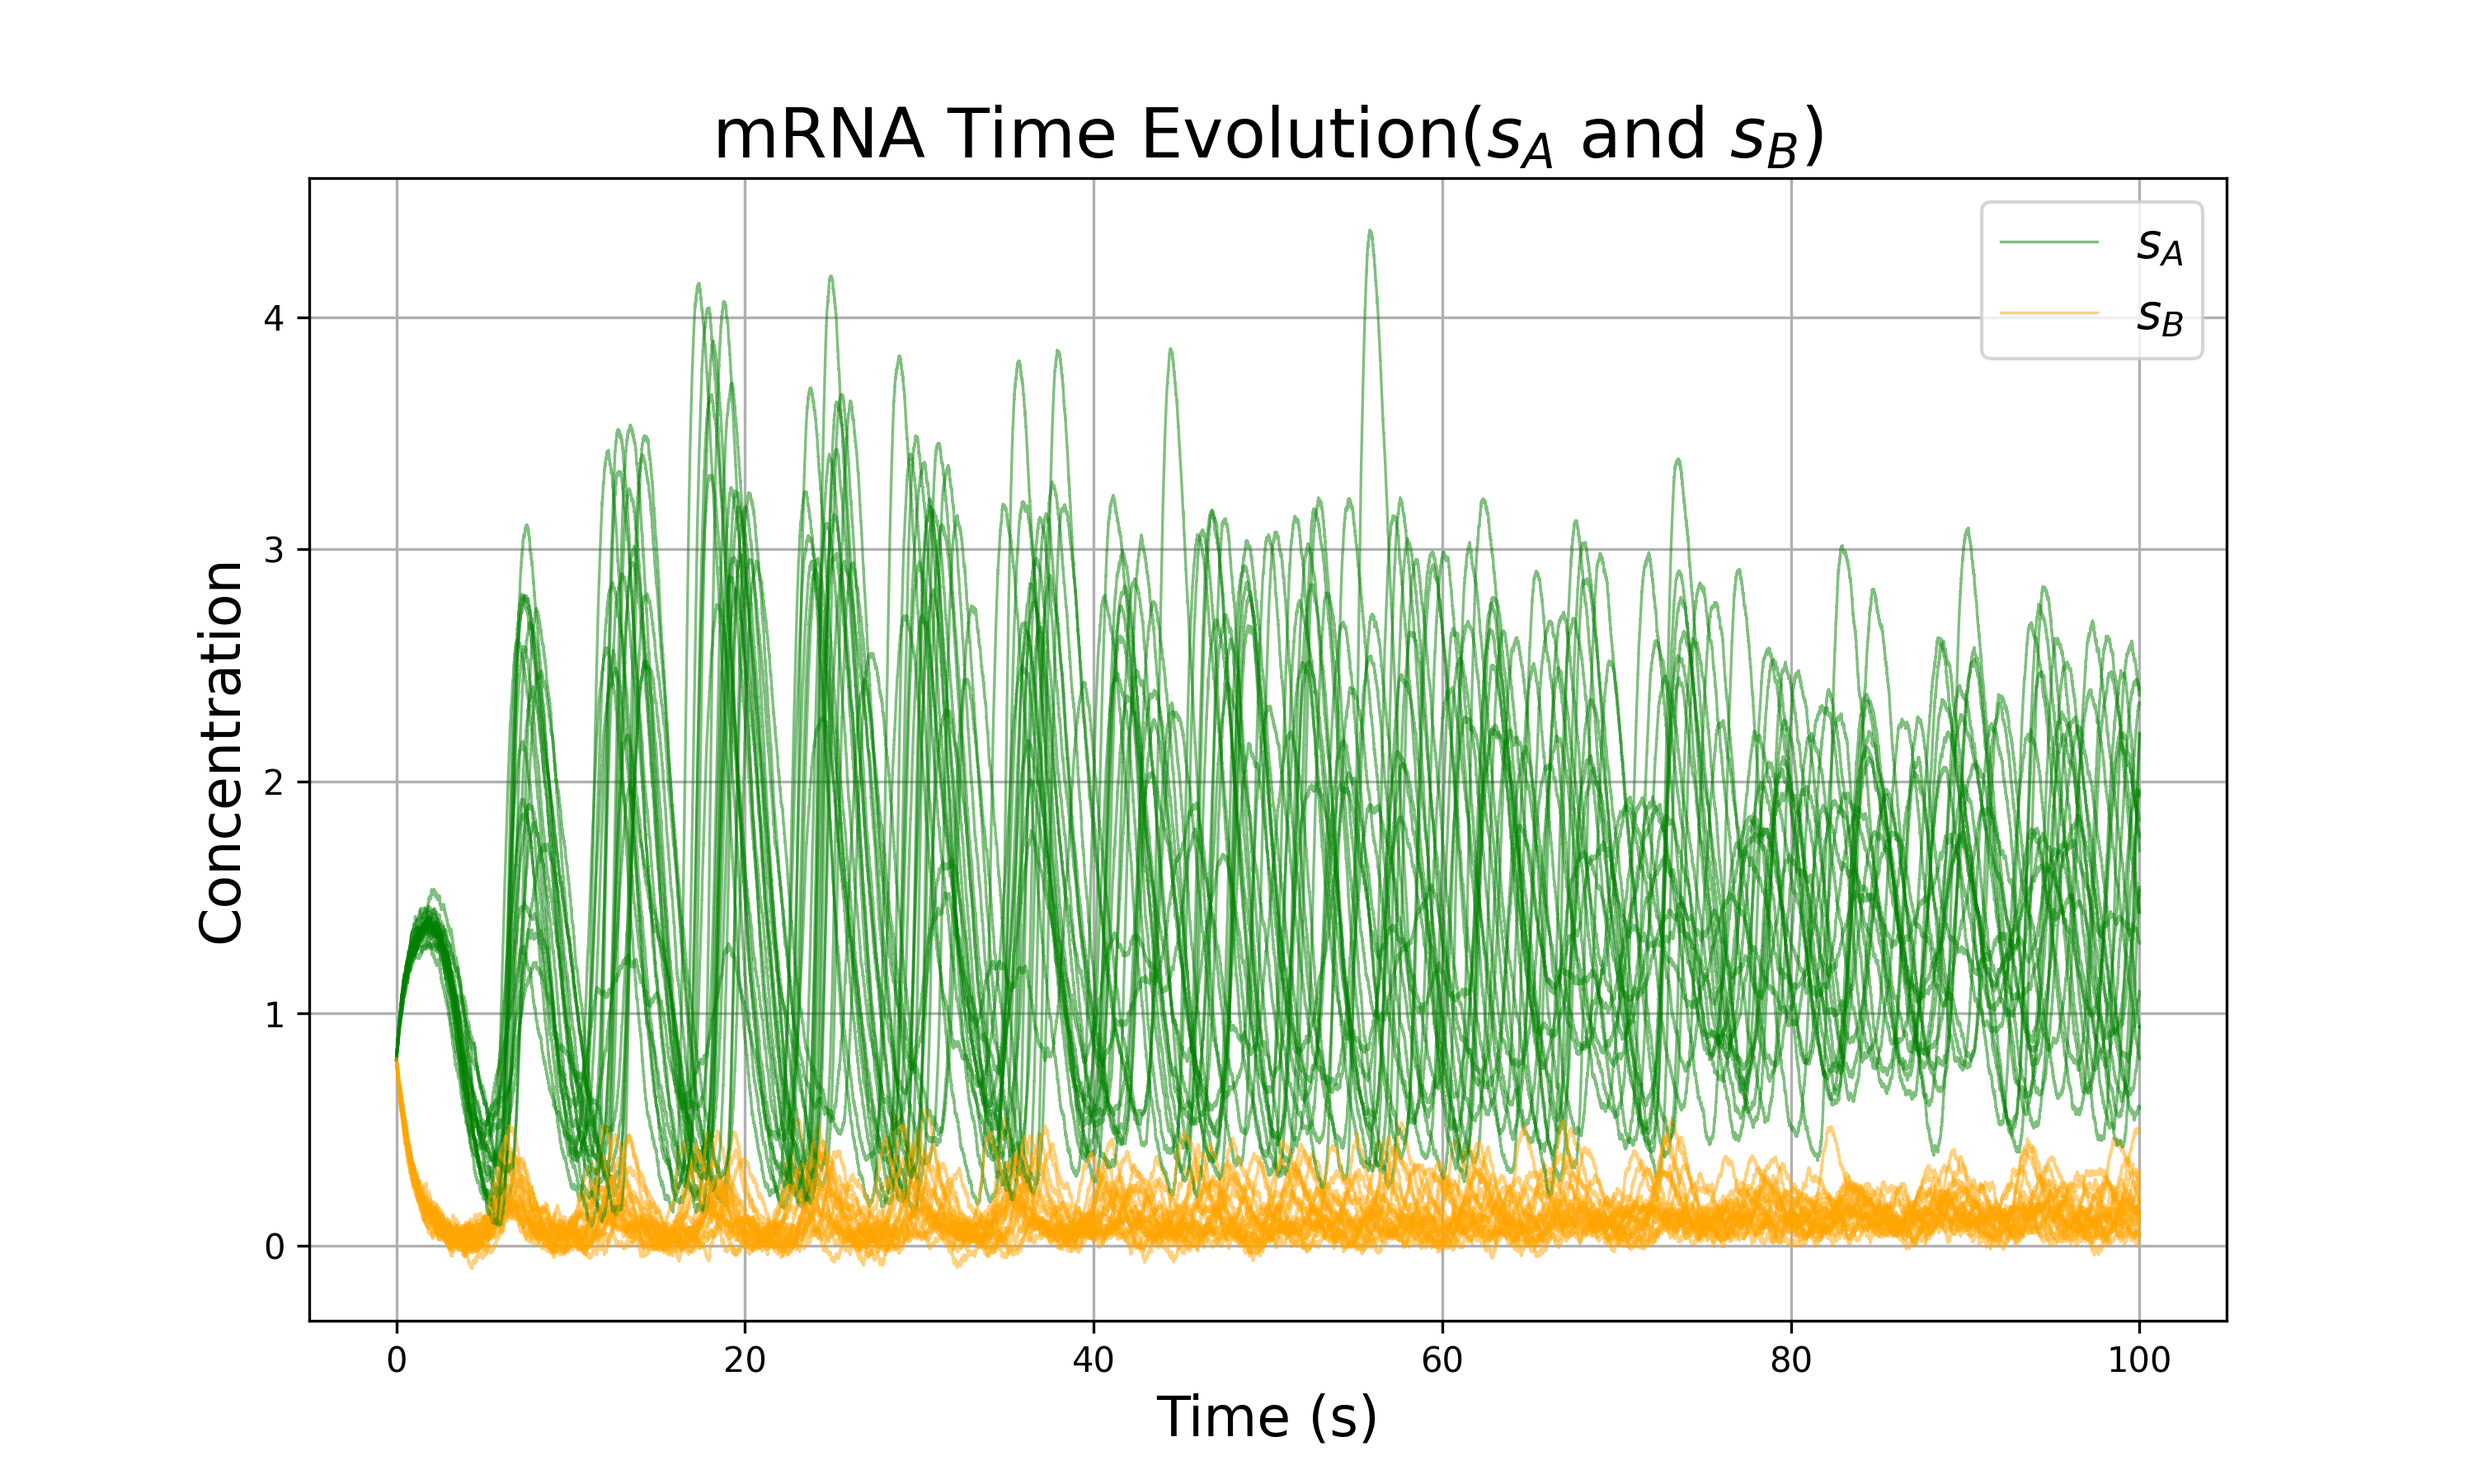
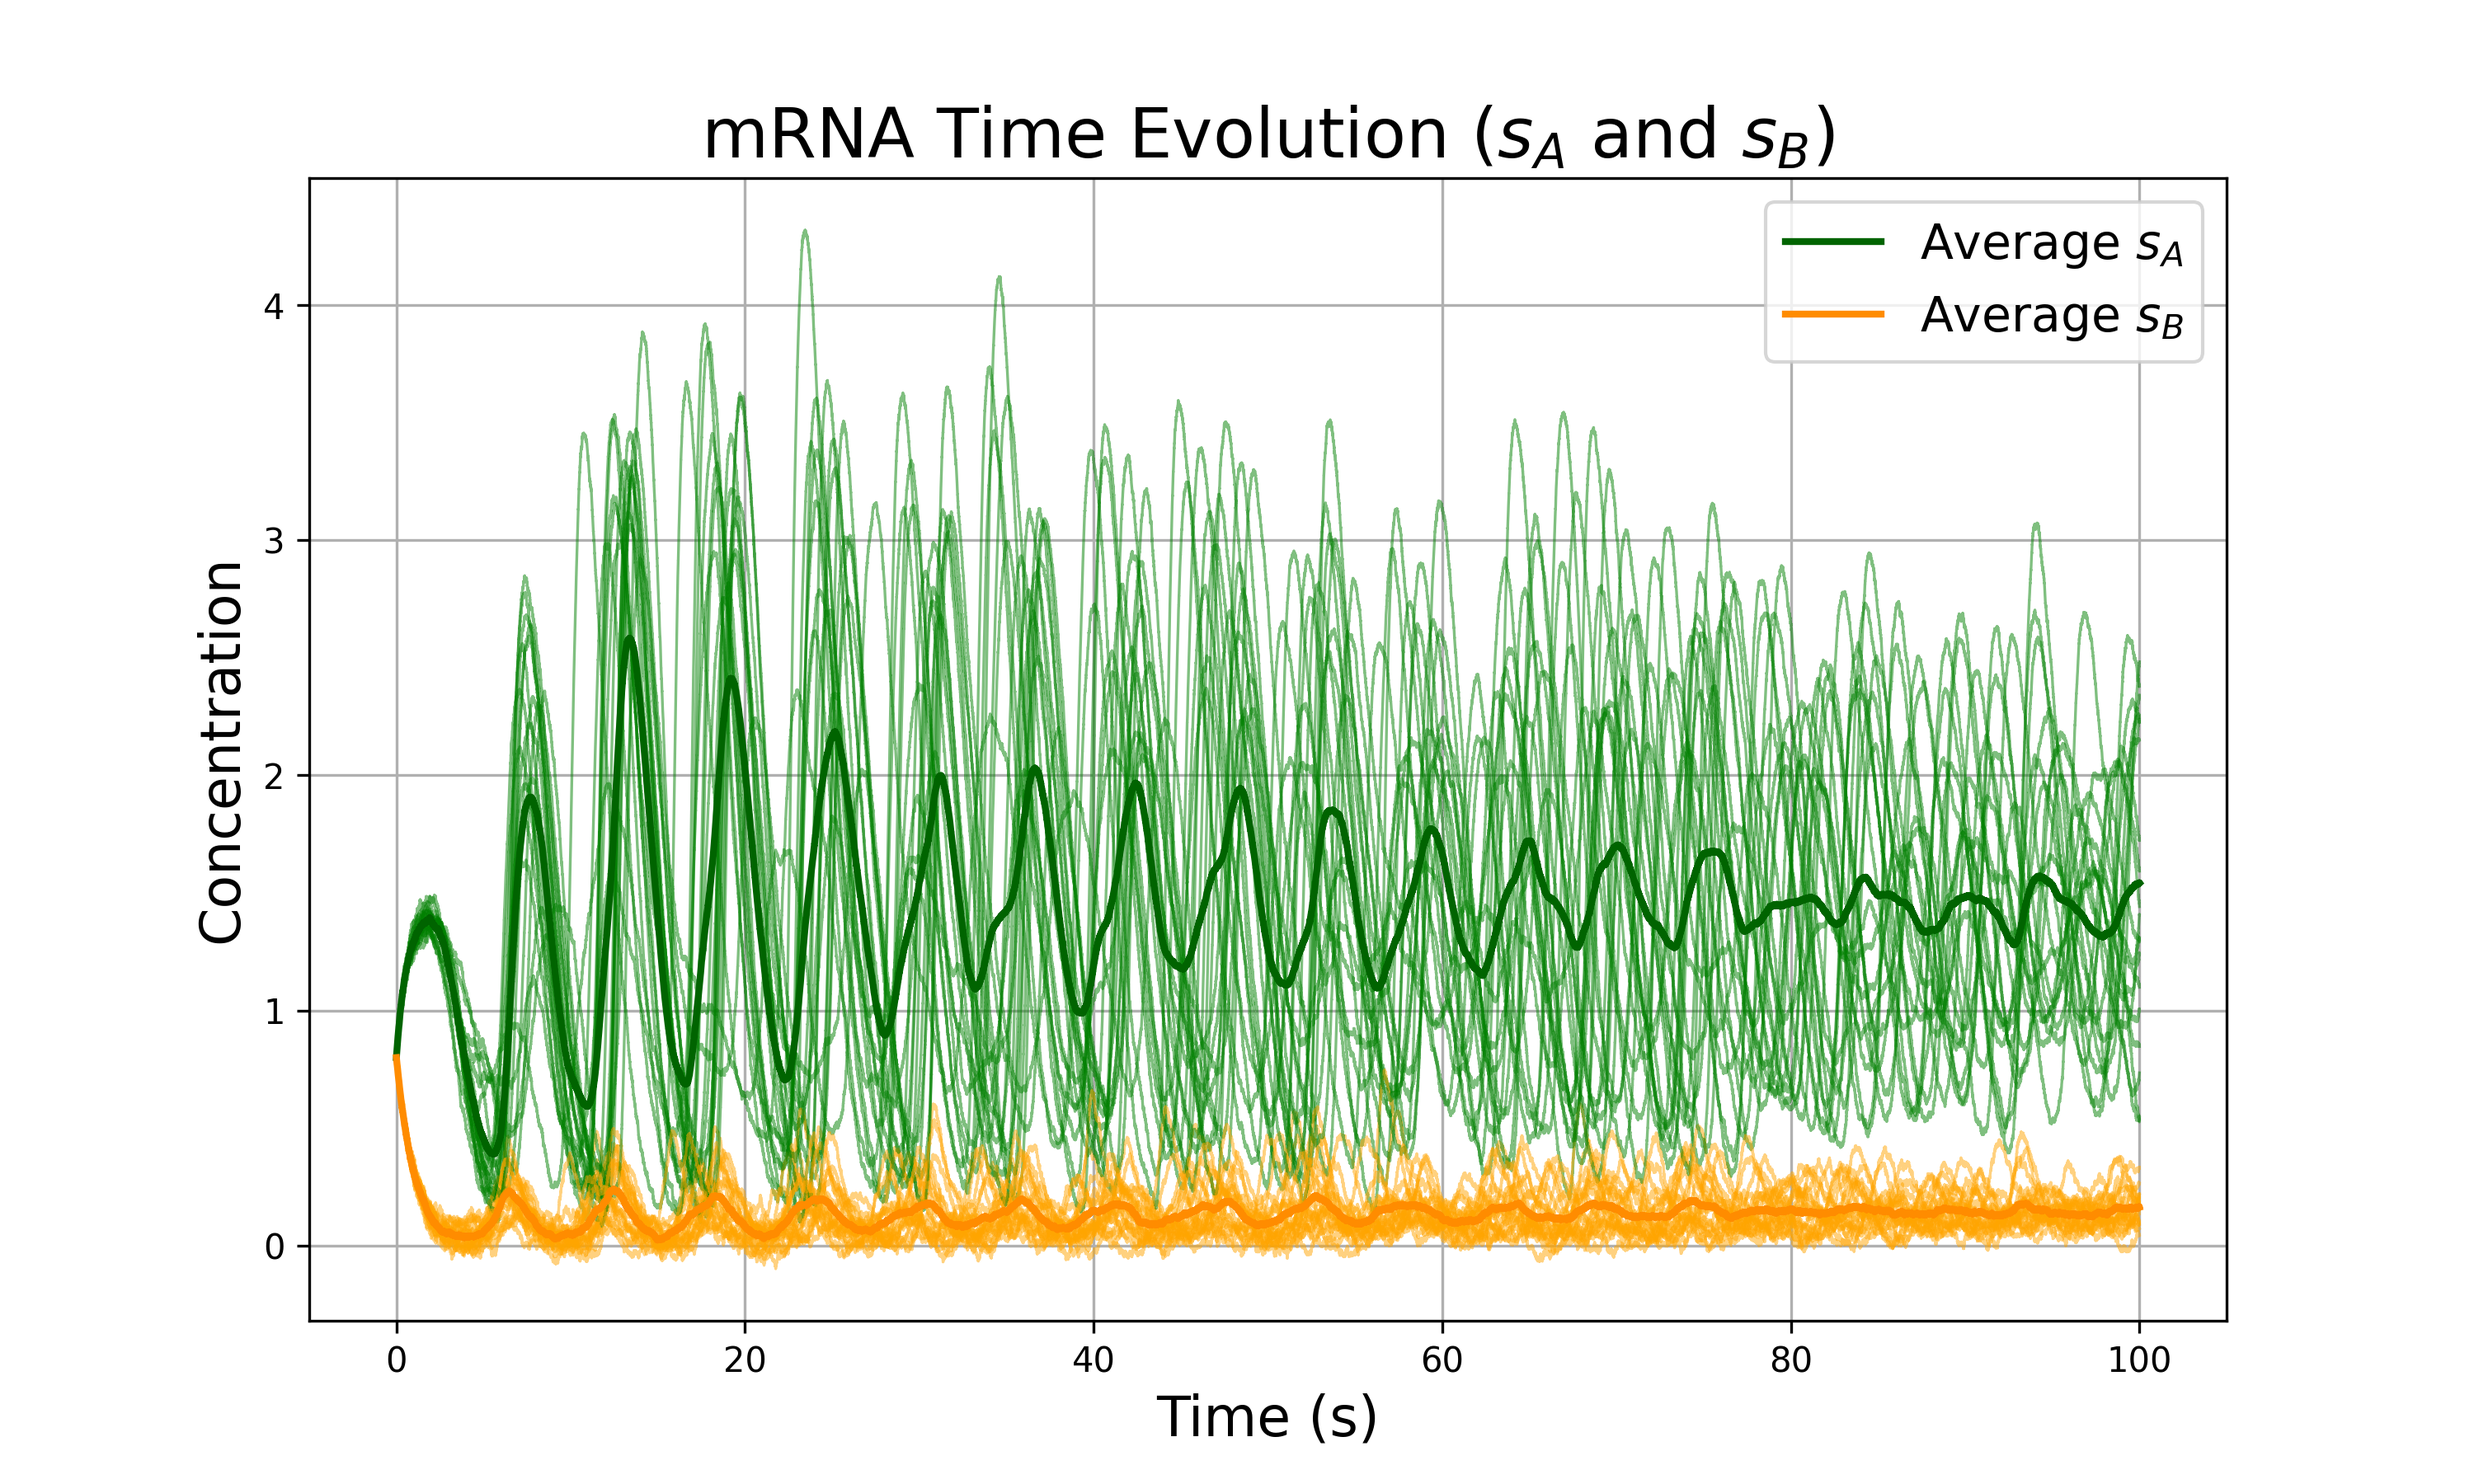
addd avg lines

Changed region(s): [[0.124, 0.0622, 0.899, 0.8711]]

diff --git a/A2/assignment2.py b/A2/assignment2.py
@@ -188,7 +188,7 @@ def solve_gene_regulation_sde(model_type, y0, t, params):
 def plot_pre_mRNA_time_evolution_sde(t, num_simulations, initial_conditions, sde_params, save_path=None):
     """
     Plot the time evolution of pre-mRNA concentrations (u_A and u_B) for Route II.
-    Individual simulations are plotted as semi-transparent lines.
+    Individual simulations are plotted as semi-transparent lines, with average trajectories highlighted.
     """
 
     solutions = []
@@ -204,10 +204,17 @@ def plot_pre_mRNA_time_evolution_sde(t, num_simulations, initial_conditions, sde
     for i in range(num_simulations):
         plt.plot(t, u_a_vals[i], color='blue', alpha=0.5, lw=0.8)
         plt.plot(t, u_b_vals[i], color='red', alpha=0.5, lw=0.8)
+
+    # Plot average trajectories
+    avg_u_a = np.mean(u_a_vals, axis=0)
+    avg_u_b = np.mean(u_b_vals, axis=0)
+    plt.plot(t, avg_u_a, color='darkblue', lw=2, label=r'Average $u_A$')
+    plt.plot(t, avg_u_b, color='darkred', lw=2, label=r'Average $u_B$')
+
     plt.xlabel('Time (s)', fontsize=16)
     plt.ylabel('Concentration', fontsize=16)
-    plt.title(r'mRNA Time Evolution($u_A$ and $u_B$)', fontsize=20)
-    plt.legend([r'$u_A$', r'$u_B$'], fontsize=14)
+    plt.title(r'pre-mRNA Time Evolution ($u_A$ and $u_B$)', fontsize=20)
+    plt.legend(fontsize=14)
     plt.grid()
 
     if save_path:
@@ -220,7 +227,7 @@ def plot_pre_mRNA_time_evolution_sde(t, num_simulations, initial_conditions, sde
 def plot_mRNA_time_evolution_sde(t, num_simulations, initial_conditions, sde_params, save_path=None):
     """
     Plot the time evolution of mRNA concentrations (s_A and s_B) for Route II.
-    Individual simulations are plotted as semi-transparent lines.
+    Individual simulations are plotted as semi-transparent lines, with average trajectories highlighted.
     """
     # Run simulations and collect results
     solutions = []
@@ -237,10 +244,17 @@ def plot_mRNA_time_evolution_sde(t, num_simulations, initial_conditions, sde_par
     for i in range(num_simulations):
         plt.plot(t, s_a_vals[i], color='green', alpha=0.5, lw=0.8)
         plt.plot(t, s_b_vals[i], color='orange', alpha=0.5, lw=0.8)
+
+    # Plot average trajectories
+    avg_s_a = np.mean(s_a_vals, axis=0)
+    avg_s_b = np.mean(s_b_vals, axis=0)
+    plt.plot(t, avg_s_a, color='darkgreen', lw=2, label=r'Average $s_A$')
+    plt.plot(t, avg_s_b, color='darkorange', lw=2, label=r'Average $s_B$')
+
     plt.xlabel('Time (s)', fontsize=16)
     plt.ylabel('Concentration', fontsize=16)
-    plt.title(r'mRNA Time Evolution($s_A$ and $s_B$)', fontsize=20)
-    plt.legend([r'$s_A$', r'$s_B$'], fontsize=14)
+    plt.title(r'mRNA Time Evolution ($s_A$ and $s_B$)', fontsize=20)
+    plt.legend(fontsize=14)
     plt.grid()
 
     if save_path:
@@ -254,14 +268,14 @@ def plot_phase_plane_sde(sde_solutions, num_simulations, t, save_path):
     """
     Function to plot the phase plane for multiple stochastic gene regulation simulations.
     """
-    sde_solutions = np.array(sde_solutions)  # Convert list of solutions into a numpy array
-    p_a_vals = sde_solutions[:, :, 4]  # Extract protein A values from the solutions
-    p_b_vals = sde_solutions[:, :, 5]  # Extract protein B values from the solutions
+    sde_solutions = np.array(sde_solutions)  
+    p_a_vals = sde_solutions[:, :, 4]  # Get protein A values from the solutions
+    p_b_vals = sde_solutions[:, :, 5]  # Get protein B values from the solutions
 
     # Plot the individual trajectories
     plt.figure(figsize=(8, 6))
     for i in range(num_simulations):
-        plt.plot(p_a_vals[i], p_b_vals[i], color='grey', alpha=0.5)  # Light lines for individual trajectories
+        plt.plot(p_a_vals[i], p_b_vals[i], color='grey', alpha=0.5)  
 
     # Plot the average trajectory in dark color
     avg_p_a = np.mean(p_a_vals, axis=0)
